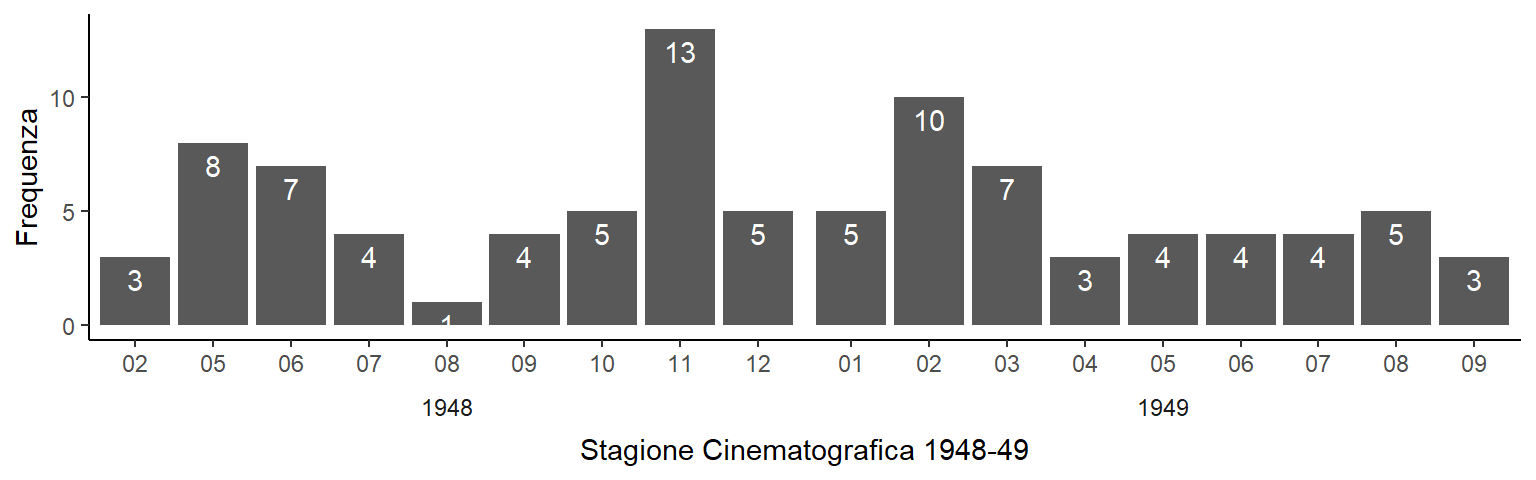
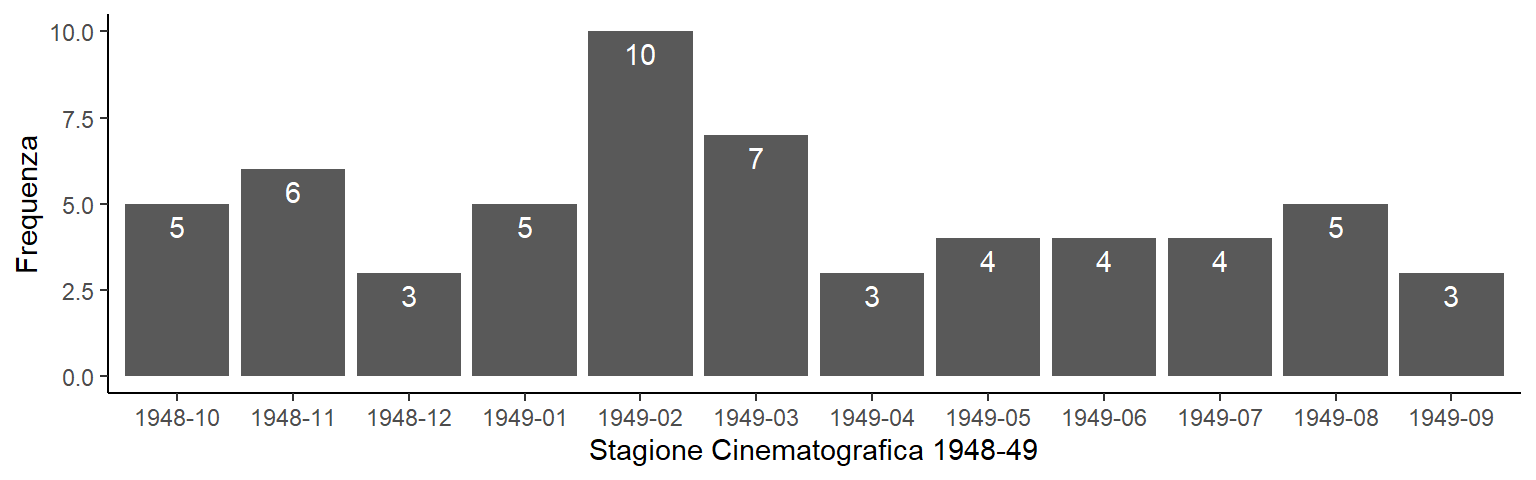
revert

Changed region(s): [[0.0, 0.0625, 1.0, 0.8125], [0.0625, 0.8125, 0.9688, 0.9688], [0.0312, 0.0312, 0.0625, 0.0938]]

diff --git a/content/agende/1948-10-01-agenda-cinematografica-1948-1949/index.md b/content/agende/1948-10-01-agenda-cinematografica-1948-1949/index.md
@@ -16,40 +16,42 @@ tags:
 
 In questo articolo esploreremo la stagione cinematografica che va dall'ottobre del 1948 a settembre del 1949, basandoci sull'elenco dei film ritrovati nelle agende cinematografiche del cinema (vedi le immagini nella galleria sotto l'articolo).
 
-Dalle agende cinematografiche possiamo contare ben 95 film unici proiettati. Il primo film di cui abbiamo la data di proiezione è *[Tua per sempre](https://www.imdb.com/title/tt0035993/)* (1943, F. Ryan), proiettato l'11 febbraio 1948. Durante l'anno, se escludiano le repliche, la media di film unici proiettati ogni mese è stata di 5, ma il mese con il maggior numero di pellicole uniche in programmazione è stato novembre.
+Dalle agende cinematografiche del ‘48/‘49, possiamo contare ben 59 film unici proiettati. Il primo film di cui abbiamo la data di proiezione è [Melodia segreta](https://www.imdb.com/title/tt0191305/) (1940) di Claude Orval, proiettato il 6 ottobre 1948. Durante l'anno, se escludiano le repliche, la media di film unici proiettati ogni mese è stata di 5, ma il mese con il maggior numero di pellicole uniche in programmazione è stato febbraio.
 
 
 <img src="{{< blogdown/postref >}}index_files/figure-html/unnamed-chunk-1-1.png" width="768" style="display: block; margin: auto;" />
 
-La maggior parte dei film proiettati rientra nel genere drammatico. Tra le particolarità di questa stagione troviamo il film *[La casa degli orrori](https://www.imdb.com/title/tt0037793/) (House of Dracula)* (1945,E. C. Kenton).
+La maggior parte dei film proiettati rientra nel genere drammatico. Tra le particolarità di questa stagione troviamo il film [La casa degli orrori](https://www.imdb.com/title/tt0037793/) (House of Dracula) del 1945 diretto da Erle C. Kenton.
 
 <img src="{{< blogdown/postref >}}index_files/figure-html/unnamed-chunk-2-1.png" width="576" style="display: block; margin: auto;" />
 
-Il film con anno di produzione più datato è *[Anime alla deriva](https://www.imdb.com/title/tt0023826/)* (1933, A. Santell). Il cinema ha dato la possibilità agli spettatori di scoprire e apprezzare capolavori del passato, contribuendo a preservare il patrimonio cinematografico.
+Il film con anno di produzione più datato è [Anime alla deriva](https://www.imdb.com/title/tt0023826/) (1933) di Alfred Santell. Il cinema ha dato la possibilità agli spettatori di scoprire e apprezzare capolavori del passato, contribuendo a preservare il patrimonio cinematografico.
 
 <img src="{{< blogdown/postref >}}index_files/figure-html/unnamed-chunk-3-1.png" width="768" style="display: block; margin: auto;" />
 
-La durata media dei film proiettati al cinema è di 92 minuti, con i film drammatici che spesso superavano questa media. Tra i film più lunghi, che superavano le due ore abbiamo: *[La Certosa di Parma](https://www.imdb.com/title/tt0040223/)* (1948, C. Jaque), *[Le chiavi del paradiso](https://www.imdb.com/title/tt0036983/)* (1944, J. M. Stahl), e *[La gondola del diavolo](https://www.imdb.com/title/tt0038570/)* (1946, C. Campogalliani). D'altra parte, tra i film più brevi, che duravano meno di un'ora ci sono: *[Fiamme sul messico](https://www.imdb.com/title/tt0034993/)* (1942, S. Newfield), *[Il mistero dei tre sosia](https://www.imdb.com/title/tt0033390/)* (1942, S. Newfield), e *[Bionda Selvaggia](https://www.imdb.com/title/tt0039198/)* (1947, S. Sekely).
+La durata media dei film proiettati al cinema è di 92 minuti, con i film drammatici che spesso superavano questa media. Tra i film più lunghi, che superavano le due ore abbiamo: [La Certosa di Parma](https://www.imdb.com/title/tt0040223/) (1948) di Christian-Jaque, [Le chiavi del paradiso](https://www.imdb.com/title/tt0036983/) (1944) di John M. Stahl, e [La gondola del diavolo](https://www.imdb.com/title/tt0038570/) (1946) di Carlo Campogalliani. D'altra parte, tra i film più brevi, che duravano quasi un'ora ci sono: [Fiamme sul messico](https://www.imdb.com/title/tt0034993/) (1942) di Sam Newfield, [Il mistero dei tre sosia](https://www.imdb.com/title/tt0033390/) (1942) di Sam Newfield, e [Bionda Selvaggia](https://www.imdb.com/title/tt0039198/) (1947) di Steve Sekely.
 
 <img src="{{< blogdown/postref >}}index_files/figure-html/unnamed-chunk-4-1.png" width="768" style="display: block; margin: auto;" />
 
-Basandoci sul rating degli utenti di Internet Movie Database, uno dei film più apprezzati di questa stagione è *[Vogliamo Vivere](https://www.imdb.com/title/tt0035446/)* (1942) del noto regista Ernst Lubitsch. Tra gli altri film di Lubitsch in questa stagione troviamo *[La vedova allegra](https://www.imdb.com/title/tt0025493/)* (1934).
+Basandoci sul rating degli utenti di Internet Movie Database, uno dei film più apprezzati di questa stagione è [Vogliamo Vivere](https://www.imdb.com/title/tt0035446/) (1942) del noto regista Ernst Lubitsch. Tra gli altri film di Lubitsch in questa stagione troviamo [La vedova allegra](https://www.imdb.com/title/tt0025493/) (1934).
 
-Tabella 1: I migliori film secondo gli utenti di IMDb:
+Tabella 1: I migliori film della stagione '48/'49 secondo gli utenti di IMDb:
 
-|Titolo                                   |Anno |Regia               | IMDb rating|
-|:----------------------------------------|:----|:-------------------|-----------:|
-|[Vogliamo Vivere!](https://www.imdb.com/title/tt0035446/)|1942 |Ernst Lubitsch      |         8.2|
-|[Vertigine](https://www.imdb.com/title/tt0037008/)|1944 |Otto Preminger      |         7.9|
-|[Musica proibita](https://www.imdb.com/title/tt0035099/)|1942 |Carlo Campogalliani |         7.6|
-|[La voce nella tempesta (Cime tempestose)](https://www.imdb.com/title/tt0032145/)|1939 |William Wyler       |         7.5|
-|[Una notte tempestosa](https://www.imdb.com/title/tt0036210/)|1943 |Jean Georgescu      |         7.5|
+|Titolo              |Anno |Regia                 | IMDb rating|
+|:-------------------|:----|:---------------------|-----------:|
+|[Vogliamo Vivere!](https://www.imdb.com/title/tt0035446/)|1942 |Ernst Lubitsch        |         8.2|
+|[Vertigine](https://www.imdb.com/title/tt0037008/)|1944 |Otto Preminger        |         7.9|
+|[Addio Kira!](https://www.imdb.com/title/tt0034429/)|1942 |Goffredo Alessandrini |         7.4|
+|[Margherita Gauthier](https://www.imdb.com/title/tt0028683/)|1936 |George Cukor          |         7.3|
+|[La vedova allegra](https://www.imdb.com/title/tt0025493/)|1934 |Ernst Lubitsch        |         7.2|
 
-Dei 95 film proiettati in questa stagione, ben 58 sono di produzione Italiana. Tra questi, il più vecchio è *[Fiat voluntas dei](https://www.imdb.com/title/tt0026348/)* (1936, A. Palermi).
+Dei 59 film proiettati in questa stagione, ben 32 sono di produzione Italiana. Tra questi, il più vecchio è [Fiat voluntas dei](https://www.imdb.com/title/tt0026348/) (1936) di Amleto Palermi.
 
-I film con la regia più frequente sono quelli di [Mario Camerini](https://it.wikipedia.org/wiki/Mario_Camerini) con *[Centomila dollari](https://www.imdb.com/title/tt0031146/)* (1940), *[T’amerò sempre](https://www.imdb.com/title/tt0036413/)* (1943), *[L'angelo e il diavolo](https://www.imdb.com/title/tt0038301/)* (1946) e *[La figlia del capitano](https://www.imdb.com/title/tt0039381/)* (1947). Regista molto popolare dopo l’avvento del cinema sonoro e prima dello scoppio della guerra. Le opere di Camerini sono tipicamente commedie romantiche con trame molto complesse. Nella maggior parte dei casi, i suoi film forniscono una visione ironica e critica della società borghese. I temi principali di Camerini sono le pressioni imposte all'individuo dalla società ei ruoli che le persone sono costrette a svolgere nei rapporti con gli altri.
+I film con la regia più frequente sono quelli di [Mario Camerini](https://it.wikipedia.org/wiki/Mario_Camerini) con [Centomila dollari](https://www.imdb.com/title/tt0031146/) (1940), [T’amerò sempre](https://www.imdb.com/title/tt0036413/) (1943) e [La figlia del capitano](https://www.imdb.com/title/tt0039381/) (1947). Regista molto popolare dopo l’avvento del cinema sonoro e prima dello scoppio della guerra. Le opere di Camerini sono tipicamente commedie romantiche con trame molto complesse. Nella maggior parte dei casi, i suoi film forniscono una visione ironica e critica della società borghese. I temi principali di Camerini sono le pressioni imposte all'individuo dalla società ei ruoli che le persone sono costrette a svolgere nei rapporti con gli altri.
 
-Tra i tanti film proiettati in questa stagione cinematografica troviamo *[Follie per l’opera](https://www.imdb.com/title/tt0040362/)* (1948, M. Costa), un film che ha dato la possibilità alla popolazione locale di conosce l’attrice emergente [Gina Lollobrigida](https://it.wikipedia.org/wiki/Gina_Lollobrigida).
+I generi cinematografici spaziano dai drammi sentimentali alle commedie, includendo alcuni film appartenenti al genere italiano dei [telefoni bianchi](https://it.wikipedia.org/wiki/Cinema_dei_telefoni_bianchi) come [Ballo al castello](https://www.imdb.com/title/tt0031075/) (1939), [La mia canzone al vento](https://www.imdb.com/title/tt0031642/) (1939), [Incontri di notte](https://www.imdb.com/title/tt0034894/) (1943), e [Fiori d'arancio](https://www.imdb.com/title/tt0036826/) (1944).
+
+Tra i tanti film proiettati in questa stagione cinematografica troviamo [Follie per l’opera](https://www.imdb.com/title/tt0040362/) (1948), un film che ha dato la possibilità alla popolazione locale di conosce l’attrice emergente [Gina Lollobrigida](https://it.wikipedia.org/wiki/Gina_Lollobrigida).
 
 ## Galleria immagini
 
@@ -59,61 +61,21 @@ Tra i tanti film proiettati in questa stagione cinematografica troviamo *[Follie
 ### Agenda La Settimana Incom 1948-49
 {{< image-gallery gallery_dir="/images/1948_incom" >}}
 
-### Calendario proiezioni 1948
-Nel calendario si riconoscono evidenziati in giallo 38 film.
-{{< image-gallery gallery_dir="/images/1948_01_01_calendario_proiezioni" >}}
-
 ## Lista film
 
 |Data di proiezione |Titolo                                          |
 |:------------------|:-----------------------------------------------|
-|1948-02-11         |[Tua per sempre](https://www.imdb.com/title/tt0035993/)|
-|1948-02-17         |[L'ultima carrozzella](https://www.imdb.com/title/tt0036470/)|
-|1948-02-21         |[La fanciulla di Portici](https://www.imdb.com/title/tt0032454/)|
-|1948-05-01         |[Ciao bellezza!](https://www.imdb.com/title/tt0035206/)|
-|1948-05-03         |[Il conte di Montecristo](https://www.imdb.com/title/tt0035752/)|
-|1948-05-08         |[Rosa di sangue](https://www.imdb.com/title/tt0031876/)|
-|1948-05-10         |[Il ponte dei sospiri](https://www.imdb.com/title/tt0032920/)|
-|1948-05-14         |[Montecassino](https://www.imdb.com/title/tt0038748/)|
-|1948-05-17         |[Fuga a due voci](https://www.imdb.com/title/tt0034762/)|
-|1948-05-21         |[Il fornaretto di Venezia](https://www.imdb.com/title/tt0031332/)|
-|1948-05-24         |[Addio, giovinezza!](https://www.imdb.com/title/tt0032182/)|
-|1948-06-05         |[La contessa di Montecristo](https://www.imdb.com/title/tt0039106/)|
-|1948-06-07         |[Alaska, inferno dell'oro](https://www.imdb.com/title/tt0036590/)|
-|1948-06-11         |[La voce nella tempesta (Cime tempestose)](https://www.imdb.com/title/tt0032145/)|
-|1948-06-13         |[La monaca di Monza](https://www.imdb.com/title/tt0039630/)|
-|1948-06-19         |[Il testimone](https://www.imdb.com/title/tt0038155/)|
-|1948-06-21         |[Pian delle stelle](https://www.imdb.com/title/tt0038840/)|
-|1948-06-26         |[Felicità perduta](https://www.imdb.com/title/tt0038525/)|
-|1948-07-02         |[Il figlio di Montecristo](https://www.imdb.com/title/tt0033076/)|
-|1948-07-09         |[Ogni giorno è domenica](https://www.imdb.com/title/tt0037144/)|
-|1948-07-12         |[I due Foscari](https://www.imdb.com/title/tt0034687/)|
-|1948-07-20         |[La cena delle beffe](https://www.imdb.com/title/tt0033456/)|
-|1948-08-05         |[Una notte tempestosa](https://www.imdb.com/title/tt0036210/)|
-|1948-09-10         |[Capitan Tempesta](https://www.imdb.com/title/tt0033449/)|
-|1948-09-13         |[Il leone di Damasco](https://www.imdb.com/title/tt0033825/)|
-|1948-09-19         |[Un uomo ritorna](https://www.imdb.com/title/tt0039072/)|
-|1948-09-23         |[Caterina da Siena](https://www.imdb.com/title/tt0039254/)|
 |1948-10-06         |[Melodia segreta](https://www.imdb.com/title/tt0191305/)|
 |1948-10-16         |[La mia canzone al vento](https://www.imdb.com/title/tt0031642/)|
 |1948-10-19         |[Ricchezza senza domani](https://www.imdb.com/title/tt0031856/)|
 |1948-10-22         |[La casa degli orrori](https://www.imdb.com/title/tt0037793/)|
 |1948-10-24         |[Follie per l'opera](https://www.imdb.com/title/tt0040362/)|
-|1948-11-01         |[L'angelo e il diavolo](https://www.imdb.com/title/tt0038301/)|
-|1948-11-04         |[Capitan Kidd](https://www.imdb.com/title/tt0037576/)|
 |1948-11-07         |[Vertigine](https://www.imdb.com/title/tt0037008/)|
 |1948-11-09         |[Il sultano rosso](https://www.imdb.com/title/tt0026032/)|
-|1948-11-09         |[Buffalo Bill](https://www.imdb.com/title/tt0036677/)|
 |1948-11-14         |[Torna... a Sorrento](https://www.imdb.com/title/tt0038183/)|
-|1948-11-16         |[La maschera di ferro](https://www.imdb.com/title/tt0031619/)|
-|1948-11-19         |[Due ragazze e un marinaio](https://www.imdb.com/title/tt0037408/)|
 |1948-11-20         |[La vedova allegra](https://www.imdb.com/title/tt0025493/)|
-|1948-11-22         |[Musica proibita](https://www.imdb.com/title/tt0035099/)|
 |1948-11-25         |[Tentazione](https://www.imdb.com/title/tt0039015/)|
-|1948-11-25         |[Il corriere del re](https://www.imdb.com/title/tt0039280/)|
 |1948-11-28         |[Margherita Gauthier](https://www.imdb.com/title/tt0028683/)|
-|1948-12-02         |[Balalaika](https://www.imdb.com/title/tt0031074/)|
-|1948-12-06         |[Maschera di sangue](https://www.imdb.com/title/tt0143686/)|
 |1948-12-08         |[Anime alla deriva](https://www.imdb.com/title/tt0023826/)|
 |1948-12-10         |[Vogliamo Vivere!](https://www.imdb.com/title/tt0035446/)|
 |1948-12-31         |[Le chiavi del paradiso](https://www.imdb.com/title/tt0036983/)|
